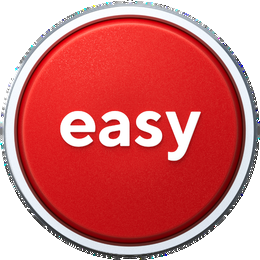
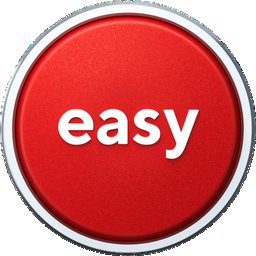
StaplesLockupAd: rebuild the button's alpha, bottom-justify the lockup
THE BUTTON'S RING WAS BROKEN. Its alpha had been keyed off brightness, which
works for the wordmark — saturated red on black — and destroys the button,
because that mark's outer ring IS dark and keying ate exactly the pixels it is
made of. Invisible on the black it was extracted from, obvious the moment it
sat on a light ground.

The button is a circle, so its alpha is now built geometrically instead: the
disc is located from the source and filled regardless of pixel darkness, so
every part of the ring survives. Inset three pixels, because making the rim
fully opaque also exposed the source's JPEG speckle, which the old keying had
been hiding by accident.

THE LOCKUP IS BOTTOM-JUSTIFIED so both wordmarks sit on one line. Centring
looks tidy in a box model and wrong on the page — the two marks have very
different internal proportions, so their type lands at two different heights
and it reads as two logos that happen to be near each other.

flex-end alone was not enough, because neither mark ends where its writing
ends. Measured on the files: the Staples wordmark's bottom is 19.5% of its box
height above the box bottom (the easy button hangs below it), while the Code
Ninjas wordmark IS the bottom of its box. The Staples mark is pushed down by
that difference, expressed against its own width since that is what it is
sized by. Both numbers are in the stylesheet — re-measure if either file is
replaced.

Claude-Session: https://claude.ai/code/session_011t2THP7sXhjfh2L13MKoPu

Changed region(s): [[0.0, 0.0, 1.0, 1.0], [0.5312, 0.4062, 0.7812, 0.625], [0.2188, 0.4062, 0.5, 0.5938]]

diff --git a/src/Stylesheets/StaplesLockupAd.css b/src/Stylesheets/StaplesLockupAd.css
@@ -369,25 +369,50 @@
 }
 
 /* The compliant, official lockup — full marks as supplied, separated by the
-   same hairline as the hero frame. */
+   same hairline as the hero frame.
+
+   BOTTOM-JUSTIFIED, SO BOTH WORDMARKS SIT ON ONE LINE. Centring them looks
+   tidy in a box model and wrong on the page: the two marks have completely
+   different internal proportions, so their type ends up at two different
+   heights and the lockup reads as two logos that happen to be near each
+   other. */
 .sl-lockup {
   display: flex;
-  align-items: center;
+  align-items: flex-end;
   justify-content: center;
   gap: calc(14px * var(--s));
   margin-bottom: calc(6px * var(--s));
 }
 
-.sl-lockup-s { width: calc(104px * var(--s)); height: auto; display: block; }
+/* ...and flex-end alone is not enough, because the two marks do not end where
+   their writing ends. Measured on the actual files:
+
+     staples-logo     the wordmark's bottom is 19.5% of the box height ABOVE
+                      the box bottom — the easy button hangs below it
+     cn-woodbridge    the wordmark IS the bottom of the box, 0% offset
+
+   So the Staples mark is pushed down by that 19.5%, expressed against its own
+   width since that is what it is sized by: 0.195 x (256/903) = 0.055.
+   Re-measure if either file is ever replaced. */
+.sl-lockup-s {
+  --sw: calc(104px * var(--s));
+  width: var(--sw);
+  height: auto;
+  display: block;
+  margin-bottom: calc(var(--sw) * -0.055);
+}
 
 /* The Code Ninjas mark is head-plus-wordmark and reads smaller per unit width
    than the Staples wordmark, so it is set wider to match OPTICALLY rather than
    numerically. Two partner marks at equal measured width look unequal. */
 .sl-lockup-c { width: calc(120px * var(--s)); height: auto; display: block; }
 
+/* Sits on the same line the writing does, not on the bottom of the taller
+   box. */
 .sl-lockup-bar {
   width: 1px;
-  height: calc(30px * var(--s));
+  height: calc(26px * var(--s));
+  margin-bottom: calc(2px * var(--s));
   background: var(--hair);
 }
 
